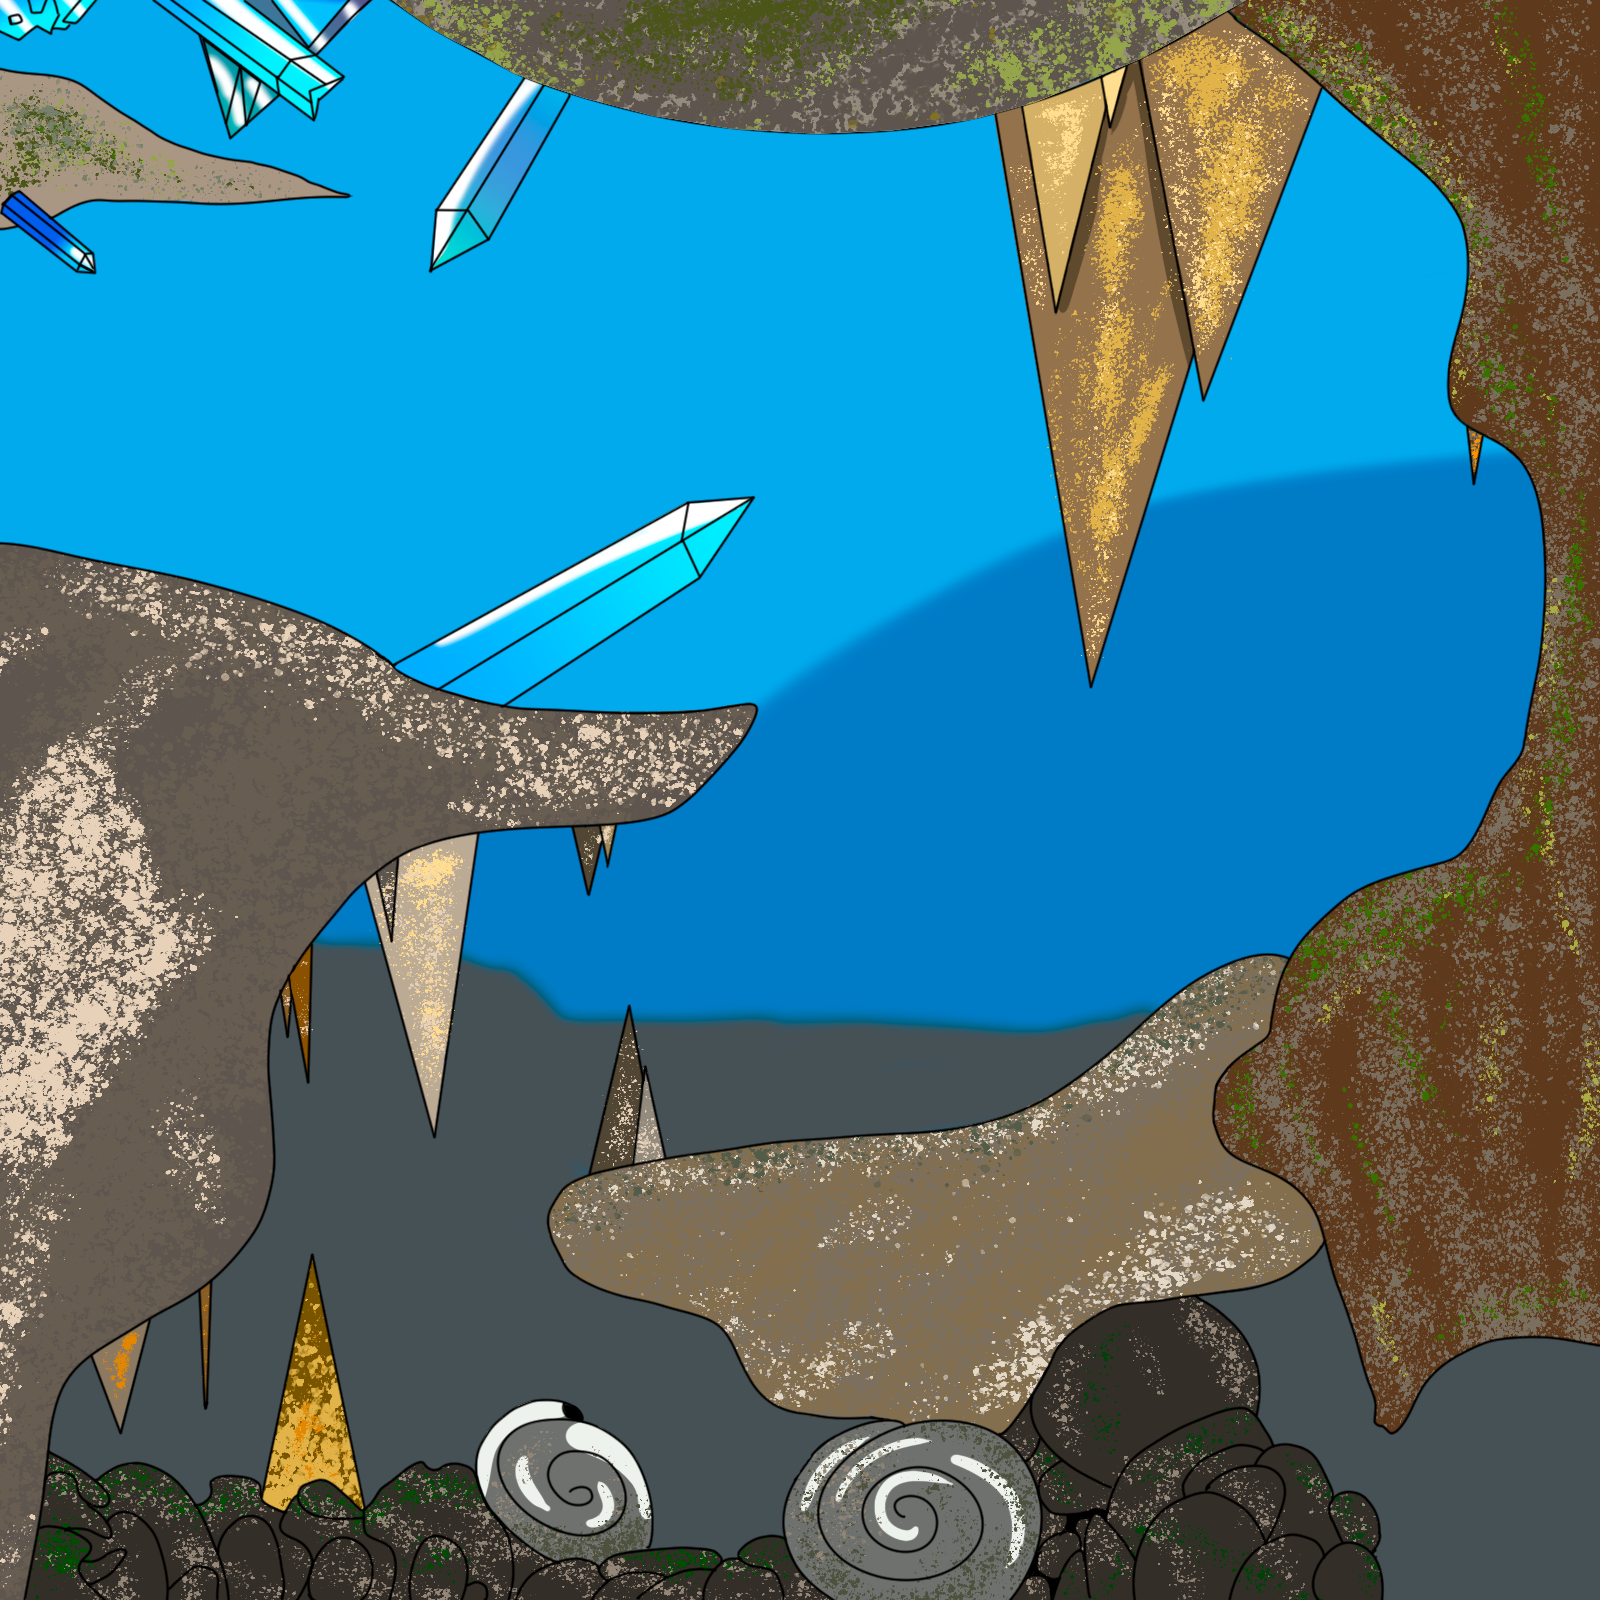
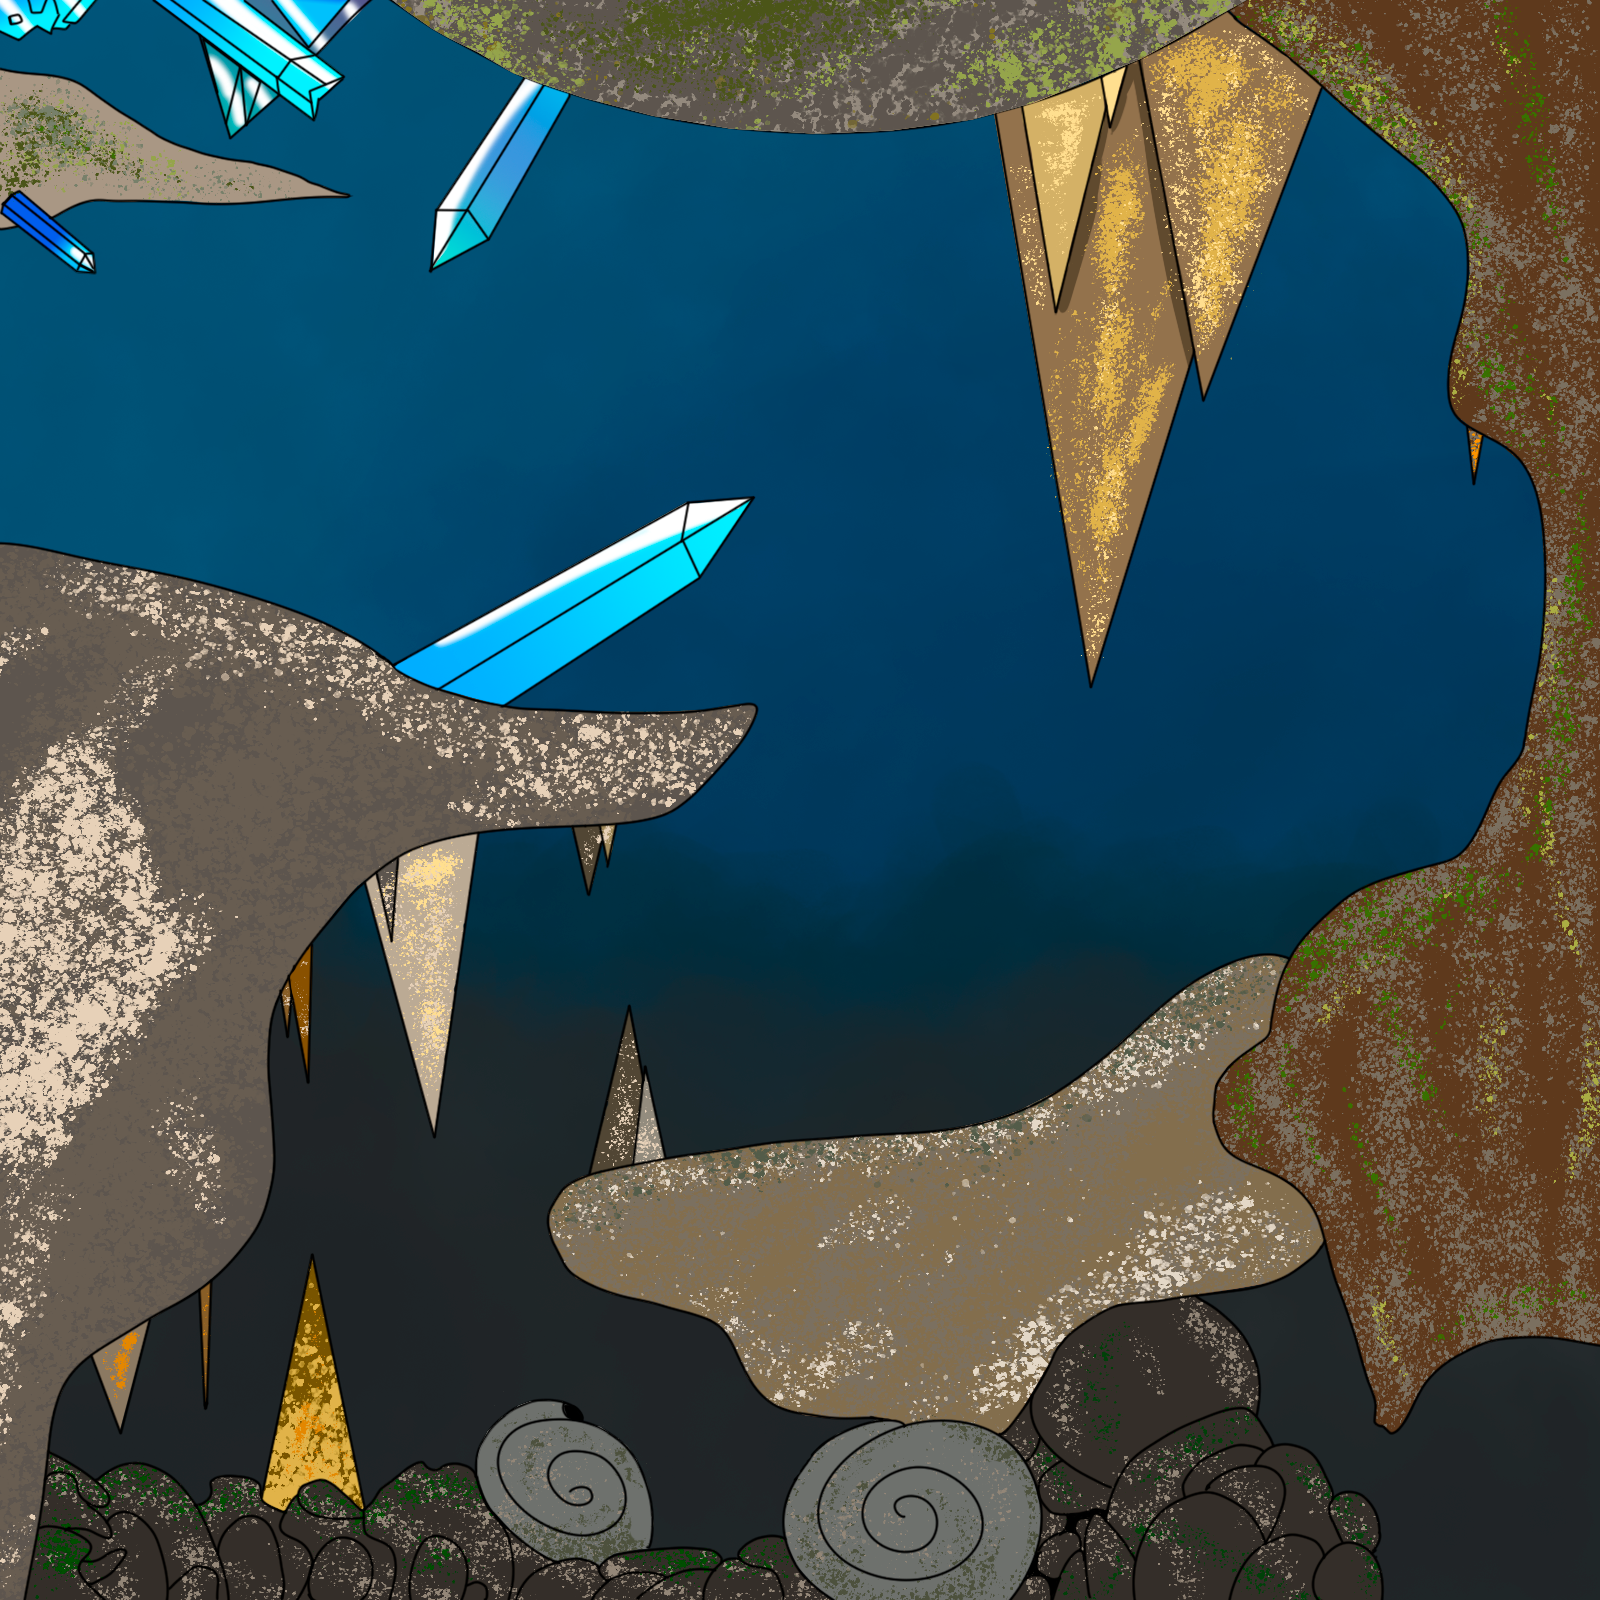
session wallJump
Changement du BG + ajout du wall jump
+ ajout du premier code pour le sprite de l'ennemi changement du niveau pour contourner le probleme des echelles

diff --git a/index.html b/index.html
@@ -55,6 +55,9 @@
                 // chargement du sprite du personnage
                 this.load.spritesheet('perso','assets/perso.png',
                 { frameWidth: 32, frameHeight: 52 });
+                // chargement de l'enemi
+                this.load.spritesheet('enemi','assets/enemis.png',
+                { frameWidth: 32, frameHeight: 52 });
                 
             }
             
@@ -86,17 +89,19 @@
                 "calque_plateformes",
                 tileset
                 );
-
+                // chargement du calque calque_echelle
                 const calque_echelle = carteDuNiveau.createLayer(
                 "calque_echelle",
                 tileset
                 ); 
 
 
-                //chargement du sprite
+                //chargement du sprite du personage
                 this.player = this.physics.add.sprite(10, 0, 'perso');
                 
-                
+                //chargement du sprite de l'enemi
+                this.enemi = this.physics.add.sprite(10, 45, 'enemis');
+
                 //permet la colision avec les bordures d'écran
                 this.player.setCollideWorldBounds(true);
                 this.physics.world.setBounds(0, 0, 1600, 1600);
@@ -107,9 +112,11 @@
                 calque_plateformes.setCollisionByProperty({ estSolide: true });  
                 
                 
-                // ajout d'une collision entre le joueur et le calque plateformes
+                // ajout d'une collision entre le joueur et l'enemi avec le calque plateformes
                 this.physics.add.collider(this.player, calque_plateformes);
-
+                this.physics.add.collider(this.enemi, calque_plateformes);
+                
+                // fonction de debug 
                 function debug_echelle(){
                     console.log("Est sur echelle");
 
@@ -130,7 +137,7 @@
                 this.cursors = this.input.keyboard.createCursorKeys();
                 this.clavier = this.input.keyboard.addKeys('Q,D,SPACE');
                 
-                // utilisation de la propiété estEchelle
+                // utilisation de la propiété estEchelle (abandonné)
                 //calque_plateformes.setCollisionByProperty({ estEchelle: true });
                 
                 // #region DEBUG
@@ -146,8 +153,18 @@
 
             }  
             
-            
-            
+            // declaration variable  et fonction pour wall jump
+            var wallJump = true;
+            var pDeplacementY = 210;
+            function blocageTouche () {
+                offTouche = false;
+            }
+            function cdWallJump () {
+                wallJump = true;
+            }
+             
+
+
             function update(){
                 // Comportement - Joueur
                 // Ici, c'est tout simplement le code pour gérer le déplacement de mon joueur
@@ -165,6 +182,30 @@
                 }
                 if (this.cursors.up.isDown && this.player.body.onFloor() || this.clavier.SPACE.isDown && this.player.body.onFloor()){
                     this.player.setVelocityY(-250);
+                }
+                // Creation  du Wall Jump 
+                if (this.cursors.up.isDown && this.player.body.blocked.right || this.clavier.SPACE.isDown && this.player.body.blocked.right) {
+                    if (wallJump == true) {
+                        wallJump = false;
+                        offTouche = true;
+                        setTimeout(cdWallJump, 500);
+                        setTimeout(blocageTouche, 200);
+                        this.player.setVelocityY(-pDeplacementY);
+                        this.player.setVelocityX(-50);
+                        
+                    }
+                }
+
+                if (this.cursors.up.isDown && this.player.body.blocked.left || this.clavier.SPACE.isDown && this.player.body.blocked.left) {
+                    if (wallJump == true) {
+                        wallJump = false;
+                        offTouche = true;
+                        setTimeout(cdWallJump, 500);
+                        setTimeout(blocageTouche, 200);
+                        this.player.setVelocityY(-pDeplacementY);
+                        this.player.setVelocityX(50);
+                        
+                    }
                 }
                 
 

diff --git a/assets/tuiles_de_jeu.tsx b/assets/tuiles_de_jeu.tsx
@@ -193,7 +193,8 @@
  </tile>
  <tile id="300">
   <properties>
-   <property name="estSolide" type="bool" value="true"/>
+   <property name="estEchelle" type="bool" value="false"/>
+   <property name="estSolide" type="bool" value="false"/>
   </properties>
  </tile>
  <tile id="303">
